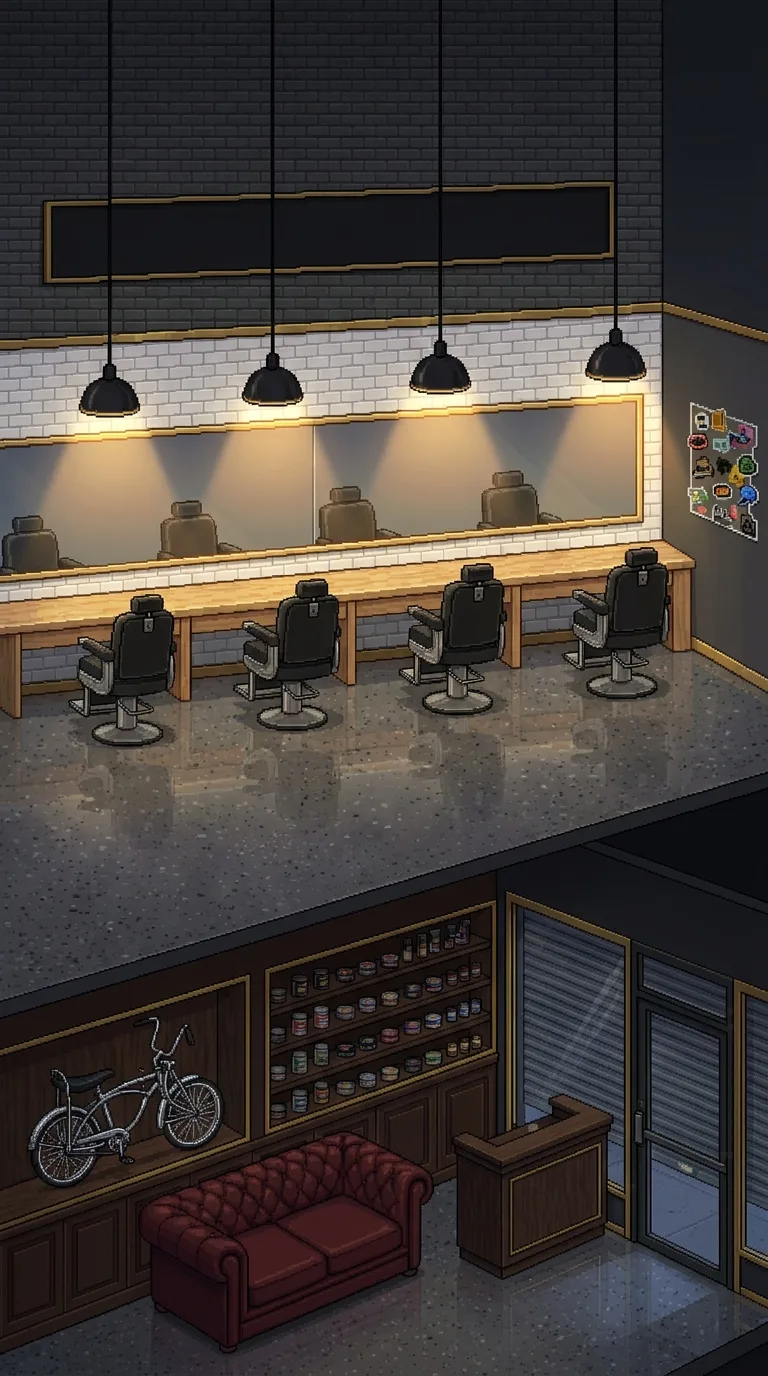
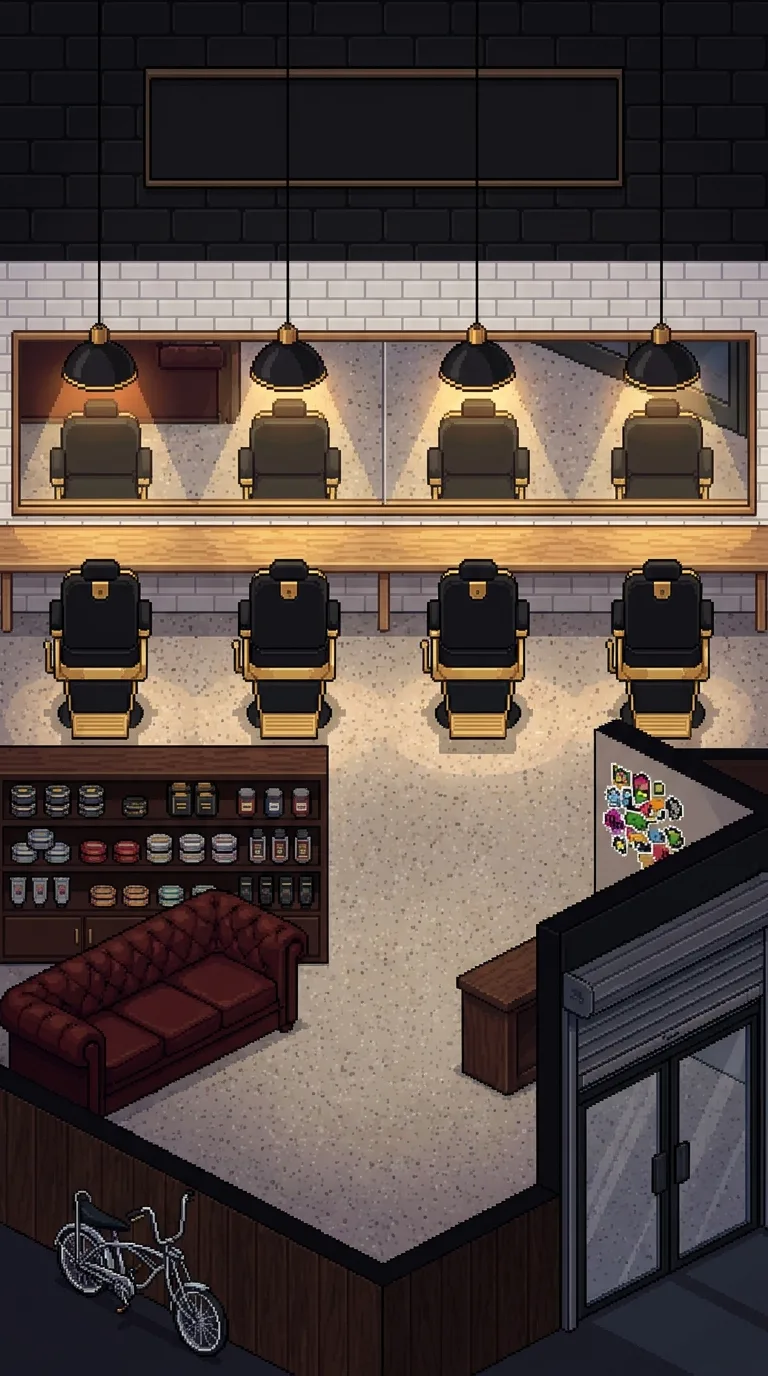
Portrait room v2: front-facing chairs (clients properly seated), re-anchored couch/desk/door/sign, per-layout cat path

diff --git a/site/assets/living-shop.js b/site/assets/living-shop.js
@@ -26,24 +26,25 @@
     landscape: {
       room: 'room', W: 1584, H: 672,
       CHAIRS: [{ x: 317, y: 545 }, { x: 521, y: 545 }, { x: 725, y: 545 }, { x: 936, y: 545 }],
-      BARBER_OFF: { x: 72, y: 12 },
+      BARBER_OFF: { x: 72, y: 12 }, CAPE_OFF: { x: 0, y: -6 },
       COUCH: [{ x: 1118, y: 505 }, { x: 1208, y: 505 }, { x: 1295, y: 505 }],
-      DOOR: { x: 1500, y: 640 }, SIGN: { x: 620, y: 118, font: 34 },
+      DOOR: { x: 1500, y: 640 }, SIGN: { x: 620, y: 118, font: 34 }, CAT_Y: 650,
       HOST: { x: 1408, y: 516, h: 86 }, IDLE_SPOT: { x: 1060, y: 560 },
       SCALE: { barber: 210, cape: 165, couch: 140, walk: 185, cat: 64 }
     },
     portrait: {
       room: 'room-p', W: 768, H: 1376,
-      CHAIRS: [{ x: 125, y: 712 }, { x: 292, y: 712 }, { x: 459, y: 712 }, { x: 618, y: 712 }],
-      BARBER_OFF: { x: 48, y: 10 },
-      COUCH: [{ x: 205, y: 1250 }, { x: 280, y: 1250 }, { x: 355, y: 1250 }],
-      DOOR: { x: 700, y: 1330 }, SIGN: { x: 326, y: 236, font: 28 },
-      HOST: { x: 553, y: 1132, h: 78 }, IDLE_SPOT: { x: 400, y: 960 },
+      CHAIRS: [{ x: 100, y: 745 }, { x: 284, y: 745 }, { x: 474, y: 745 }, { x: 659, y: 745 }],
+      BARBER_OFF: { x: 58, y: 6 }, CAPE_OFF: { x: 0, y: -48 },
+      COUCH: [{ x: 120, y: 1045 }, { x: 195, y: 1045 }, { x: 268, y: 1045 }],
+      DOOR: { x: 690, y: 1090 }, SIGN: { x: 384, y: 128, font: 30 },
+      HOST: { x: 512, y: 982, h: 84 }, IDLE_SPOT: { x: 560, y: 890 },
+      CAT_Y: 935,
       SCALE: { barber: 150, cape: 118, couch: 108, walk: 135, cat: 50 }
     }
   };
   var LAY = LAYOUTS[window.innerWidth <= 640 ? 'portrait' : 'landscape'];
-  var W = LAY.W, H = LAY.H, CHAIRS = LAY.CHAIRS, BARBER_OFF = LAY.BARBER_OFF,
+  var W = LAY.W, H = LAY.H, CHAIRS = LAY.CHAIRS, BARBER_OFF = LAY.BARBER_OFF, CAPE_OFF = LAY.CAPE_OFF,
       COUCH = LAY.COUCH, DOOR = LAY.DOOR, SIGN = LAY.SIGN, SCALE = LAY.SCALE;
 
   var canvas = document.createElement('canvas');
@@ -266,7 +267,7 @@
         if (b.cutting) {
           var capes = b.cutting_at === 'salon'
             ? ['client-salon-1', 'client-salon-2', 'client-salon-3'] : capeCycle;
-          drawSprite(capes[i % 3], c.x, c.y - 6, SCALE.cape, false);
+          drawSprite(capes[i % 3], c.x + CAPE_OFF.x, c.y + CAPE_OFF.y, SCALE.cape, false);
           var frame = key + '-' + (1 + anim);
           var bb = drawSprite(frame, p.x, p.y, SCALE.barber, true);
           hits.push({ x: bb.x, y: bb.y, w: bb.w, h: bb.h, name: b.name, cutting: true, free_in: b.free_in, cutting_at: b.cutting_at, book: b.book });
@@ -325,7 +326,7 @@
       if (catX === null && t - lastCat > 360000 && Math.random() < 0.0006) catX = -80;
       if (catX !== null) {
         catX += 0.9;
-        drawSprite('cat', catX, H - 22, SCALE.cat, false);
+        drawSprite('cat', catX, LAY.CAT_Y, SCALE.cat, false);
         if (catX > W + 80) { catX = null; lastCat = t; }
       }
     }

diff --git a/site/index.html b/site/index.html
@@ -107,7 +107,7 @@
     <p class="ls-info"></p>
   </div>
 </section>
-<script src="assets/living-shop.js?v=9" defer></script>
+<script src="assets/living-shop.js?v=12" defer></script>
 
 <!-- ============ LIVE WAIT (Living Shop Phase 1 — feature-flagged) ============ -->
 <section class="live-wait" id="live-wait" hidden aria-label="Live wait time">